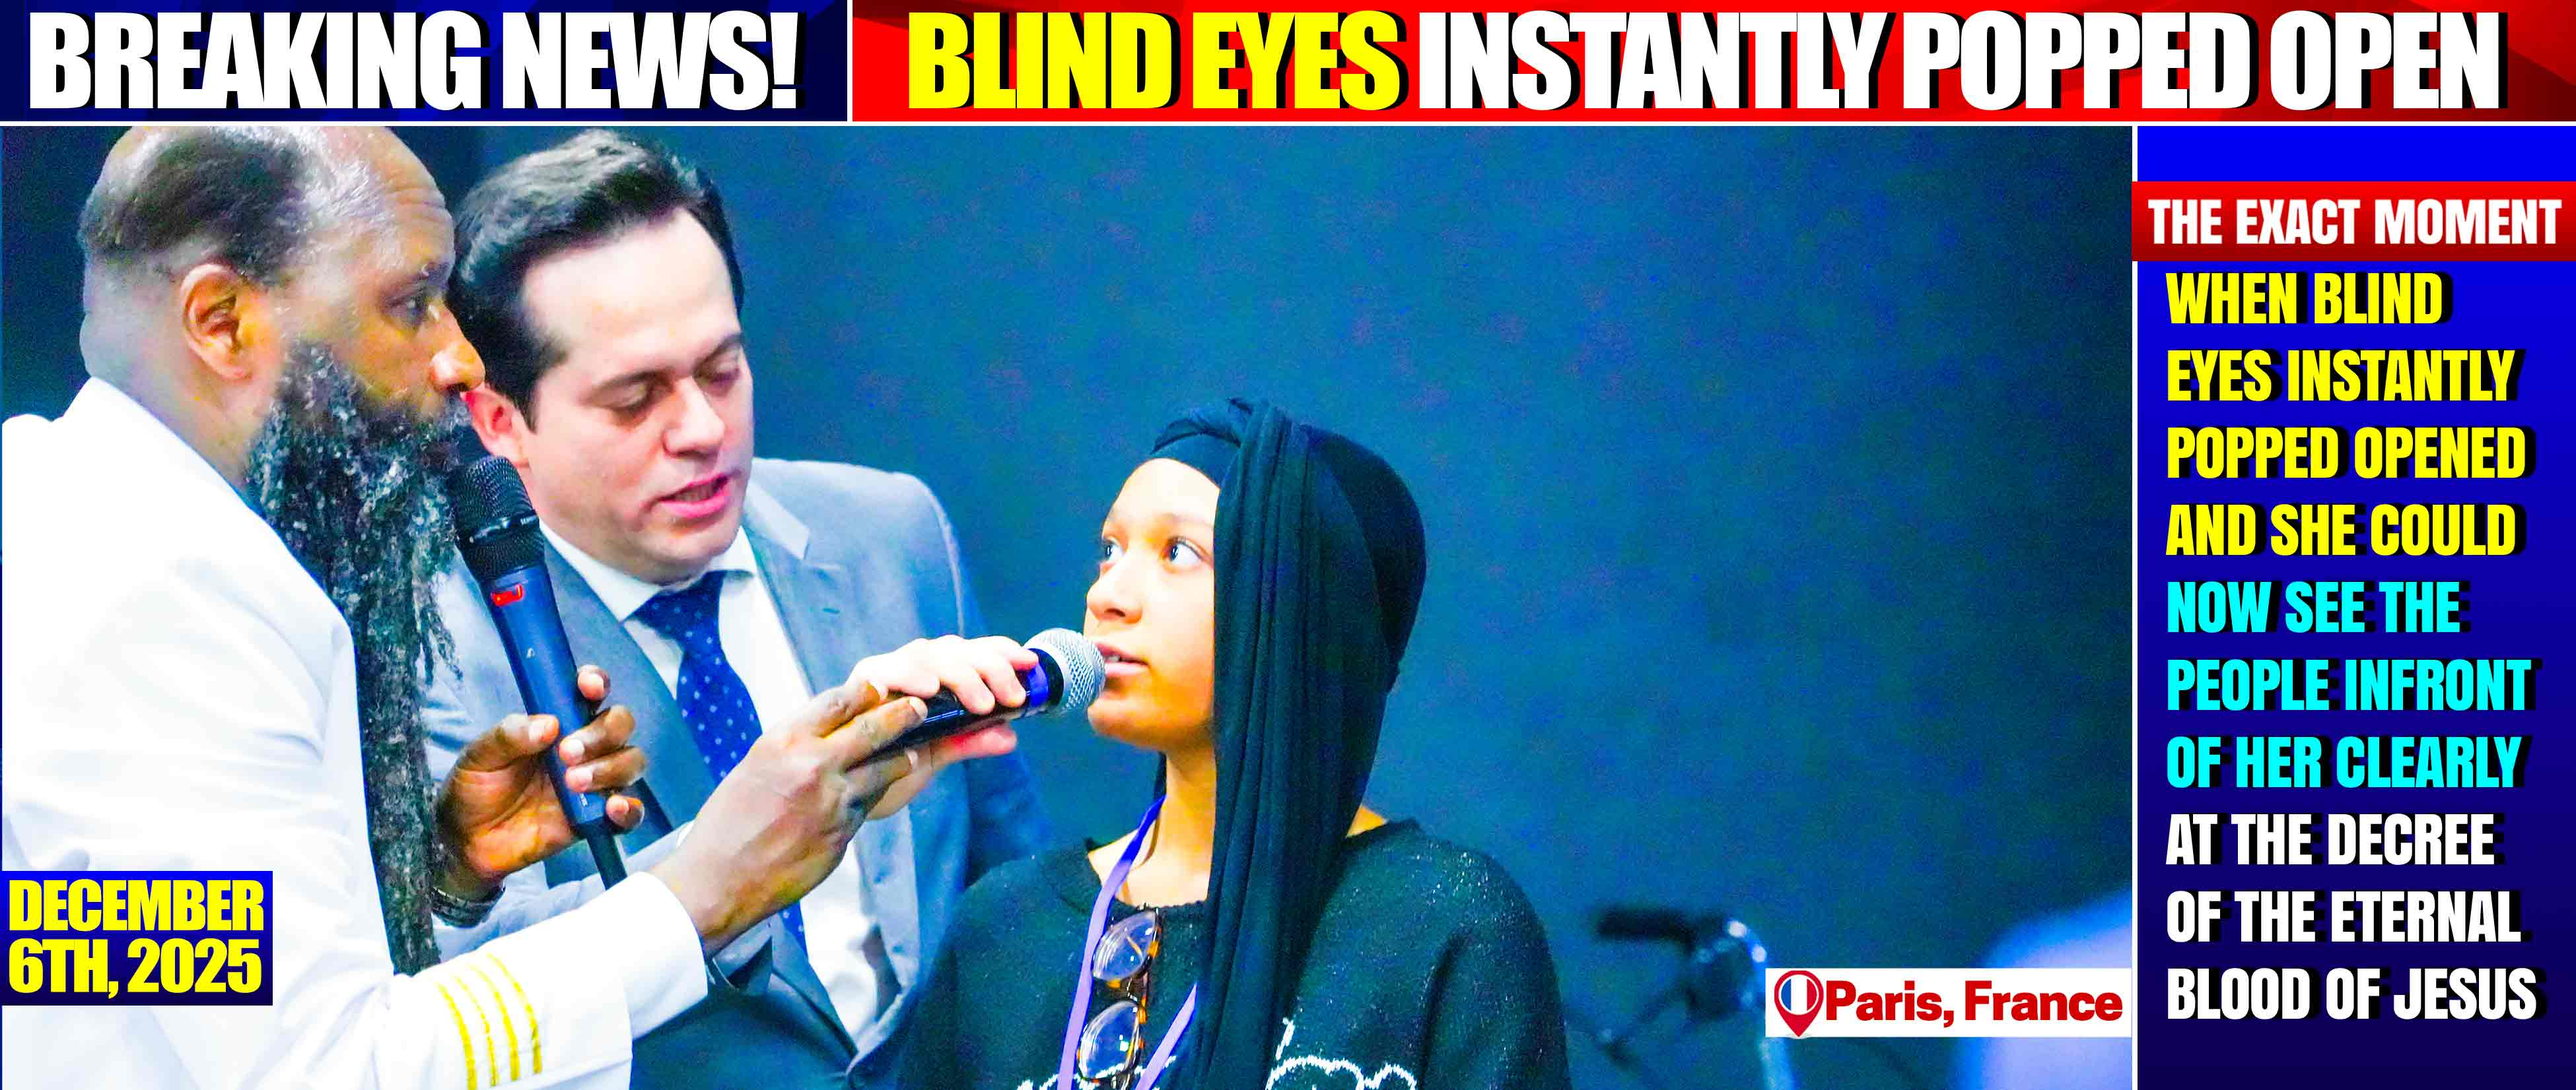
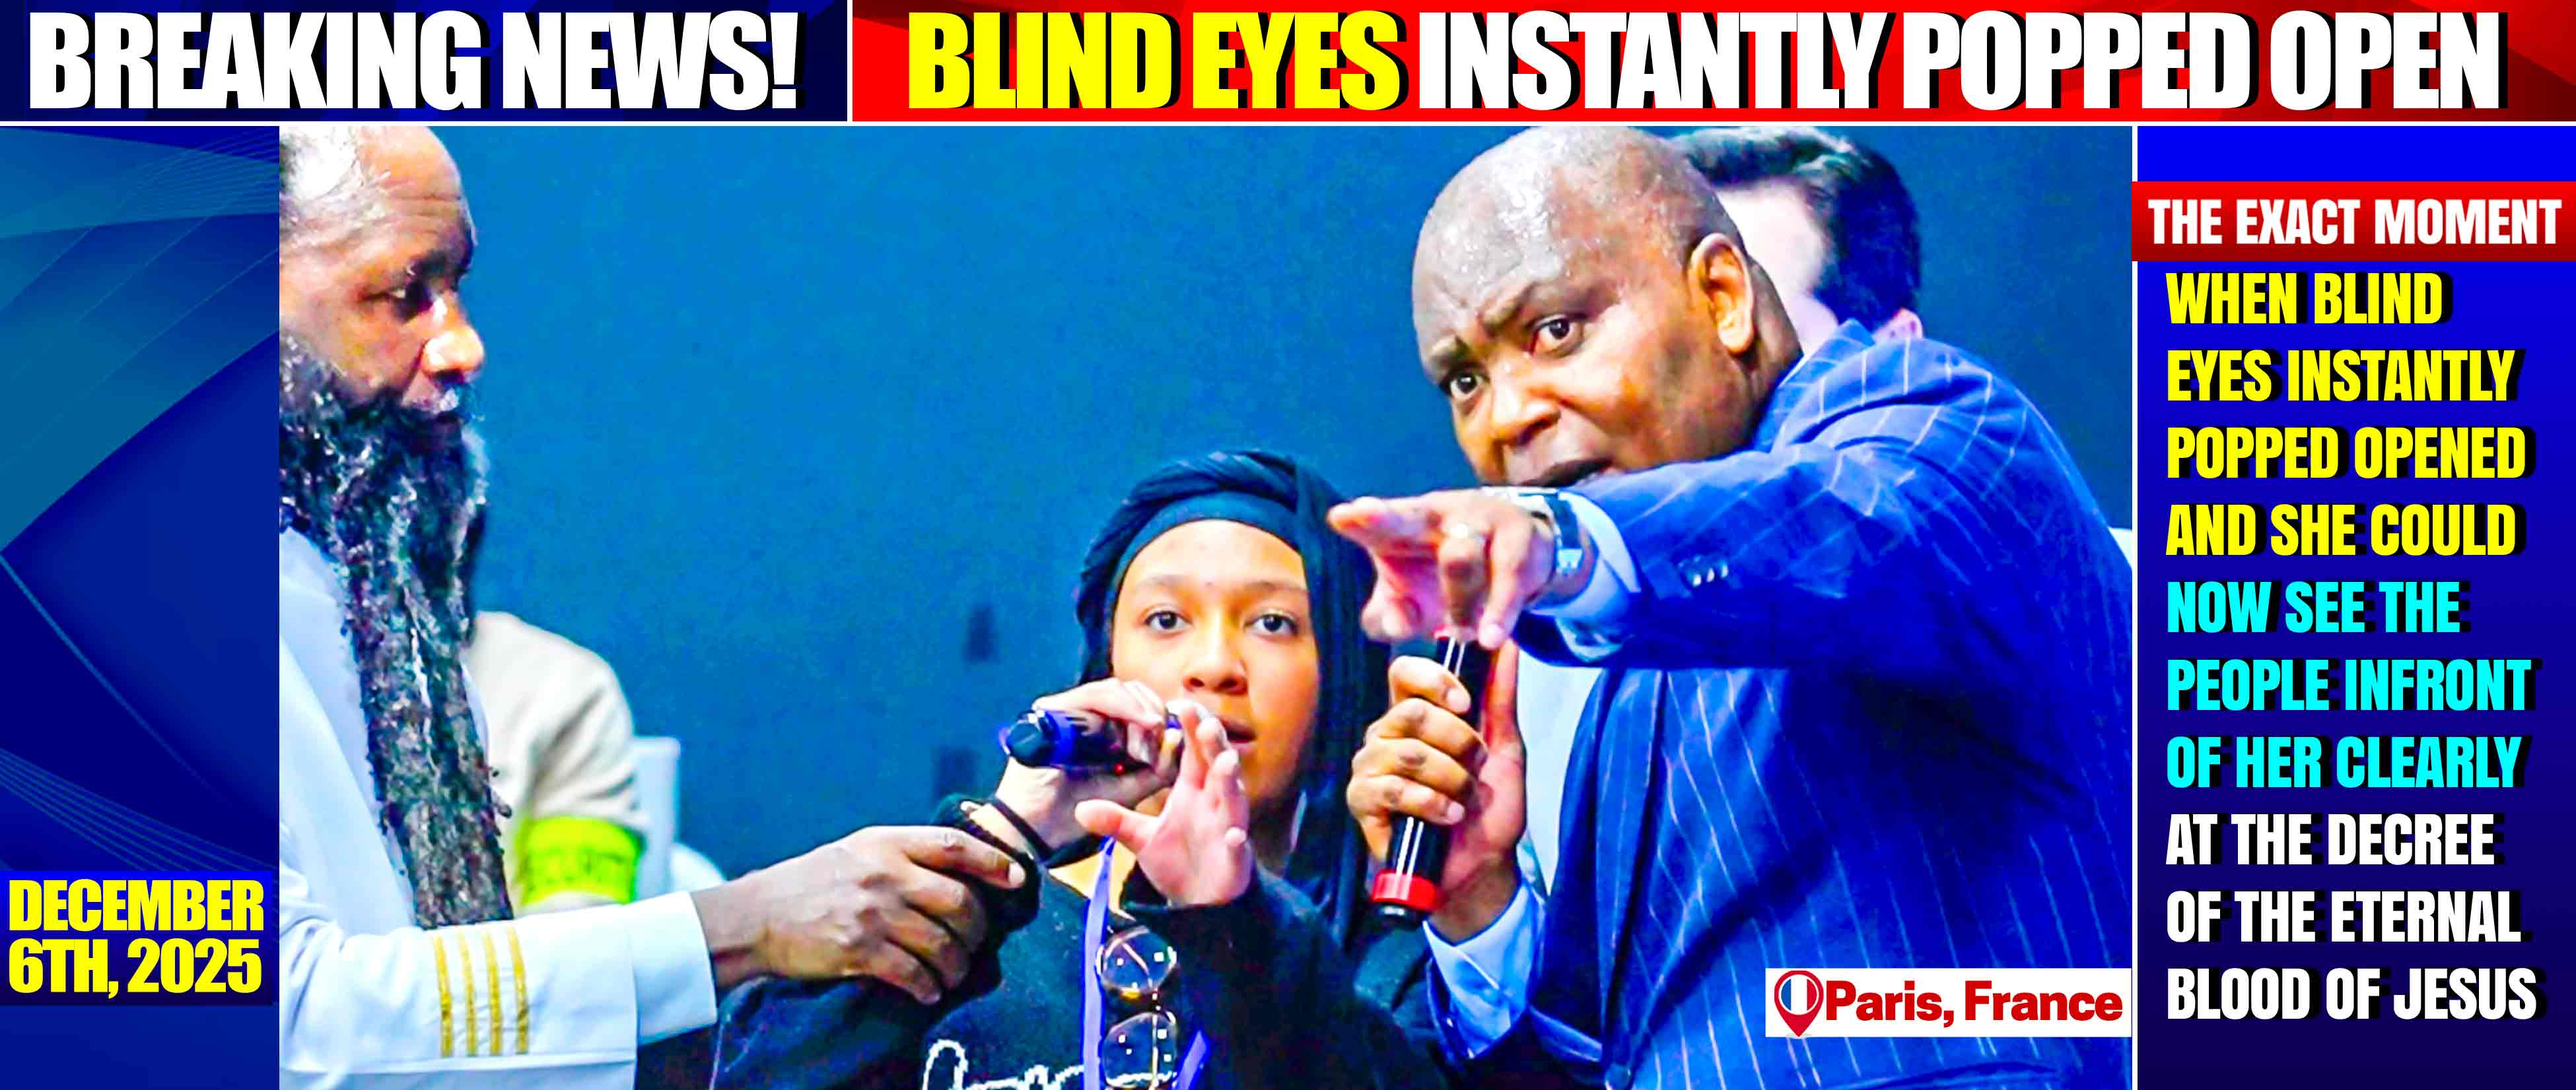
new

diff --git a/index.html b/index.html
@@ -33,7 +33,9 @@
 <img class="slideshow" src= "https://pub-9f92551086574e82abebdc7b9c83cf92.r2.dev/PARIS%20FRANCE/4.%20Healing%20Service/Blind-1.jpg" alt="Unstable internet, please refresh the browser">
 <img class="slideshow" src= "https://pub-9f92551086574e82abebdc7b9c83cf92.r2.dev/PARIS%20FRANCE/4.%20Healing%20Service/Blind-2.jpg" alt="Unstable internet, please refresh the browser">
 <img class="slideshow" src= "https://pub-9f92551086574e82abebdc7b9c83cf92.r2.dev/PARIS%20FRANCE/4.%20Healing%20Service/Blind-3.jpg" alt="Unstable internet, please refresh the browser">
-<img class="slideshow" src= "https://pub-9f92551086574e82abebdc7b9c83cf92.r2.dev/PARIS%20FRANCE/4.%20Healing%20Service/Blind-3.jpg" alt="Unstable internet, please refresh the browser">
+<img class="slideshow" src= "https://pub-9f92551086574e82abebdc7b9c83cf92.r2.dev/PARIS%20FRANCE/4.%20Healing%20Service/Blind-doctor.jpg" alt="Unstable internet, please refresh the browser">
+
+<img class="slideshow" src= "https://pub-9f92551086574e82abebdc7b9c83cf92.r2.dev/PARIS%20FRANCE/4.%20Healing%20Service/Blind-doctor.jpg" alt="Unstable internet, please refresh the browser">
 
 
 
